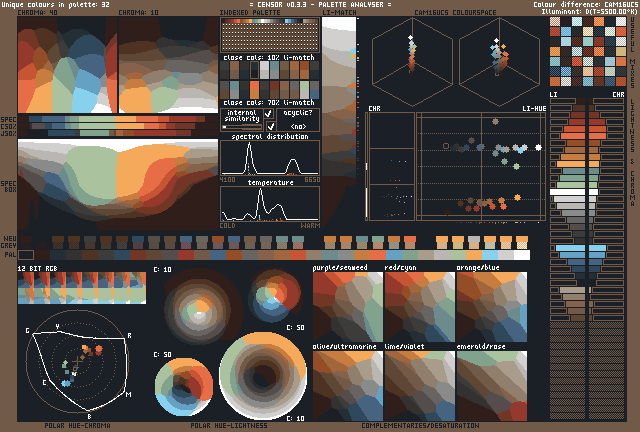
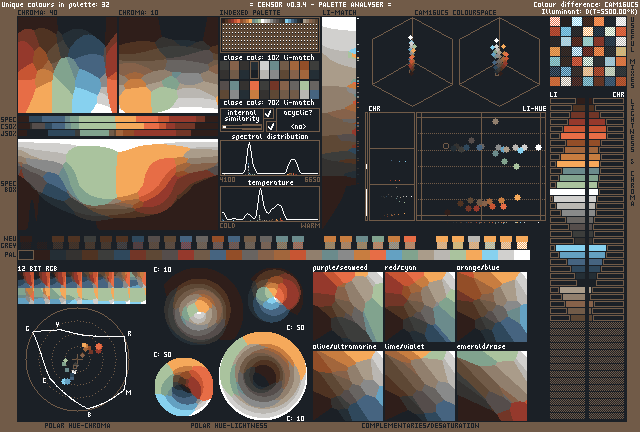
Small fixes

Changed region(s): [[0.0312, 0.7222, 0.2188, 0.963], [0.1562, 0.9028, 0.2188, 0.9329], [0.0938, 0.6921, 0.1562, 0.7222]]

diff --git a/src/palette.rs b/src/palette.rs
@@ -34,24 +34,30 @@ impl Palette {
             .collect();
         sorted.sort_by_key(|(_, c)| PackedF32(c.J));
         let sorted = sorted.iter().map(|&(i, _)| i).collect();
-        let bl = Self::minimise(&cam16, |_, c| {
+        let mut bl = Self::minimise(&cam16, |_, c| {
             CAM16UCS::dist(&c, &CAM16UCS{J:0., a:0., b:0., C:0.})
         });
-        let bg = Self::minimise(&cam16, |i, c| {
+        let mut bg = Self::minimise(&cam16, |i, c| {
             if i == bl { return f32::MAX; }
             let not_grey = 100. - CAM16UCS::dist(&c, &CAM16UCS{J:50., a:0., b:0., C:0.});
             let not_bl = CAM16UCS::dist_limatch(c, cam16[bl], 0.6);
             let score = not_bl.powf(0.02) * not_grey.powf(0.98);
             return -score;
         });
-        let fg = Self::minimise(&cam16, |i, c| {
+        let mut fg = Self::minimise(&cam16, |i, c| {
             if i == bl { return f32::MAX; }
             -CAM16UCS::dist(&c, &cam16[bl])
         });
-        let tl = Self::minimise(&cam16, |i, c| {
+        let mut tl = Self::minimise(&cam16, |i, c| {
             if i == bg { return f32::MAX; }
             -CAM16UCS::dist_limatch(c, cam16[bg], 0.6)
         });
+        if grey_ui {
+            bl = usize::MAX;
+            bg = usize::MAX;
+            fg = usize::MAX;
+            tl = usize::MAX;
+        }
         let bl_rgb = if grey_ui { RGB255::new(0, 0, 0) } else { rgb[bl] };
         let bg_rgb = if grey_ui { RGB255::new(127, 127, 127) } else { rgb[bg] };
         let fg_rgb = if grey_ui { RGB255::new(255, 255, 255) } else { rgb[fg] };

diff --git a/src/widget.rs b/src/widget.rs
@@ -794,7 +794,7 @@ impl Widget for ChromaLightnessHueWidget {
             let l = (p * (self.hh1 - 1) as f32) as i32;
             let x = x0 - 3;
             let y = y0 + (2 - i as i32) * (self.hh1 - 1) + (self.hh1 - 1) / 2;
-            graph.line(x, y - l / 2, x, y + l / 2, palette.fg_rgb, None);
+            graph.line(x, y - l / 2 + 1, x, y + l / 2 - 1, palette.fg_rgb, None);
         }
         let x0 = x0 + self.w1 + 1;
         graph.text("LI-HUE", x0 + self.w2, y0 - 1, TextAnchor::se(), font, palette.fg_rgb);

diff --git a/src/analyse.rs b/src/analyse.rs
@@ -253,7 +253,7 @@ pub fn analyse(
     rgb12bit.render(&mut graph, cacher, &palette, &ill, font, inner_x + 1, rgb12bit_y);
 
     let huechroma_x = inner_x + 8;
-    let huechroma_y = inner_y + 293;
+    let huechroma_y = inner_y + 291;
     let huechroma_d = 105;
     graph.text("POLAR HUE-CHROMA",
                huechroma_x + huechroma_d / 2, inner_y + inner_h + 1, TextAnchor::n(), font,
